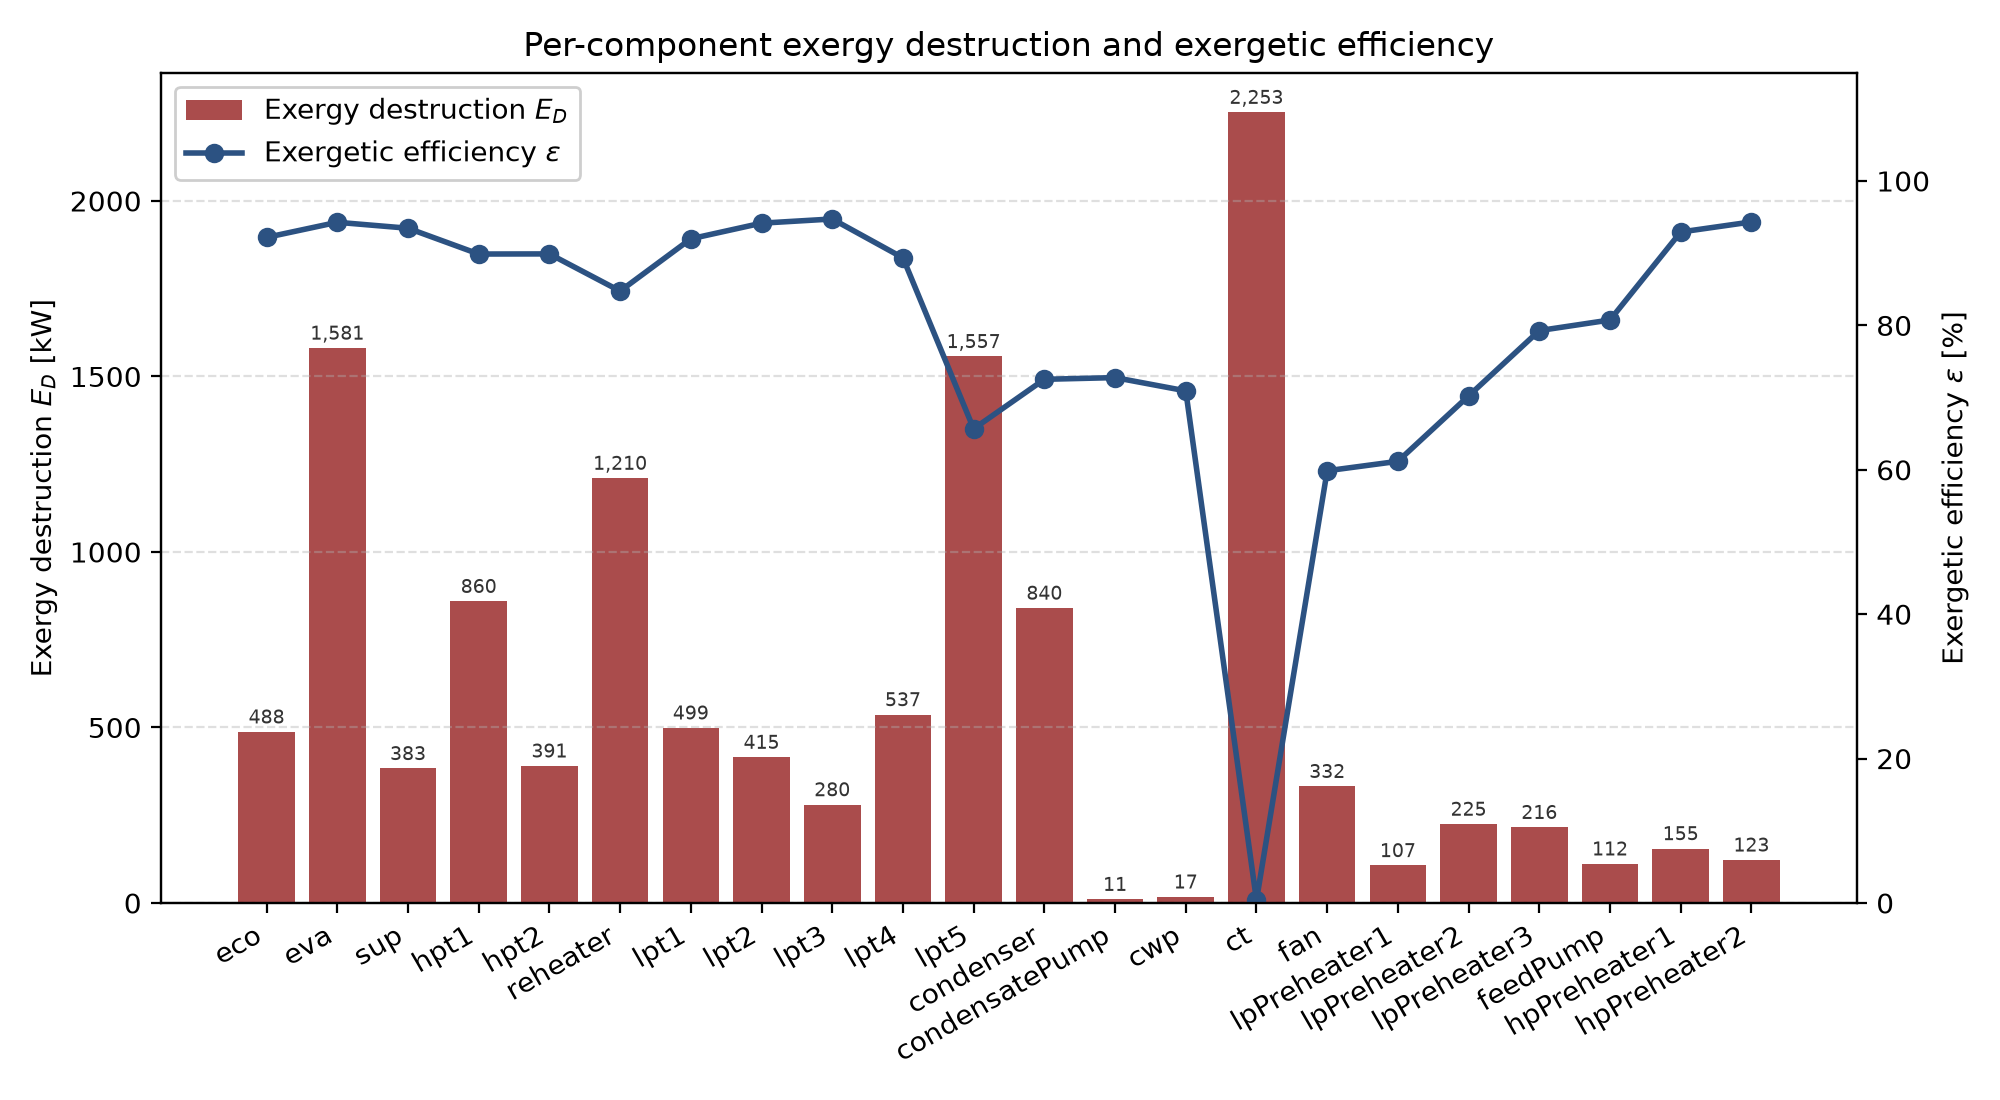
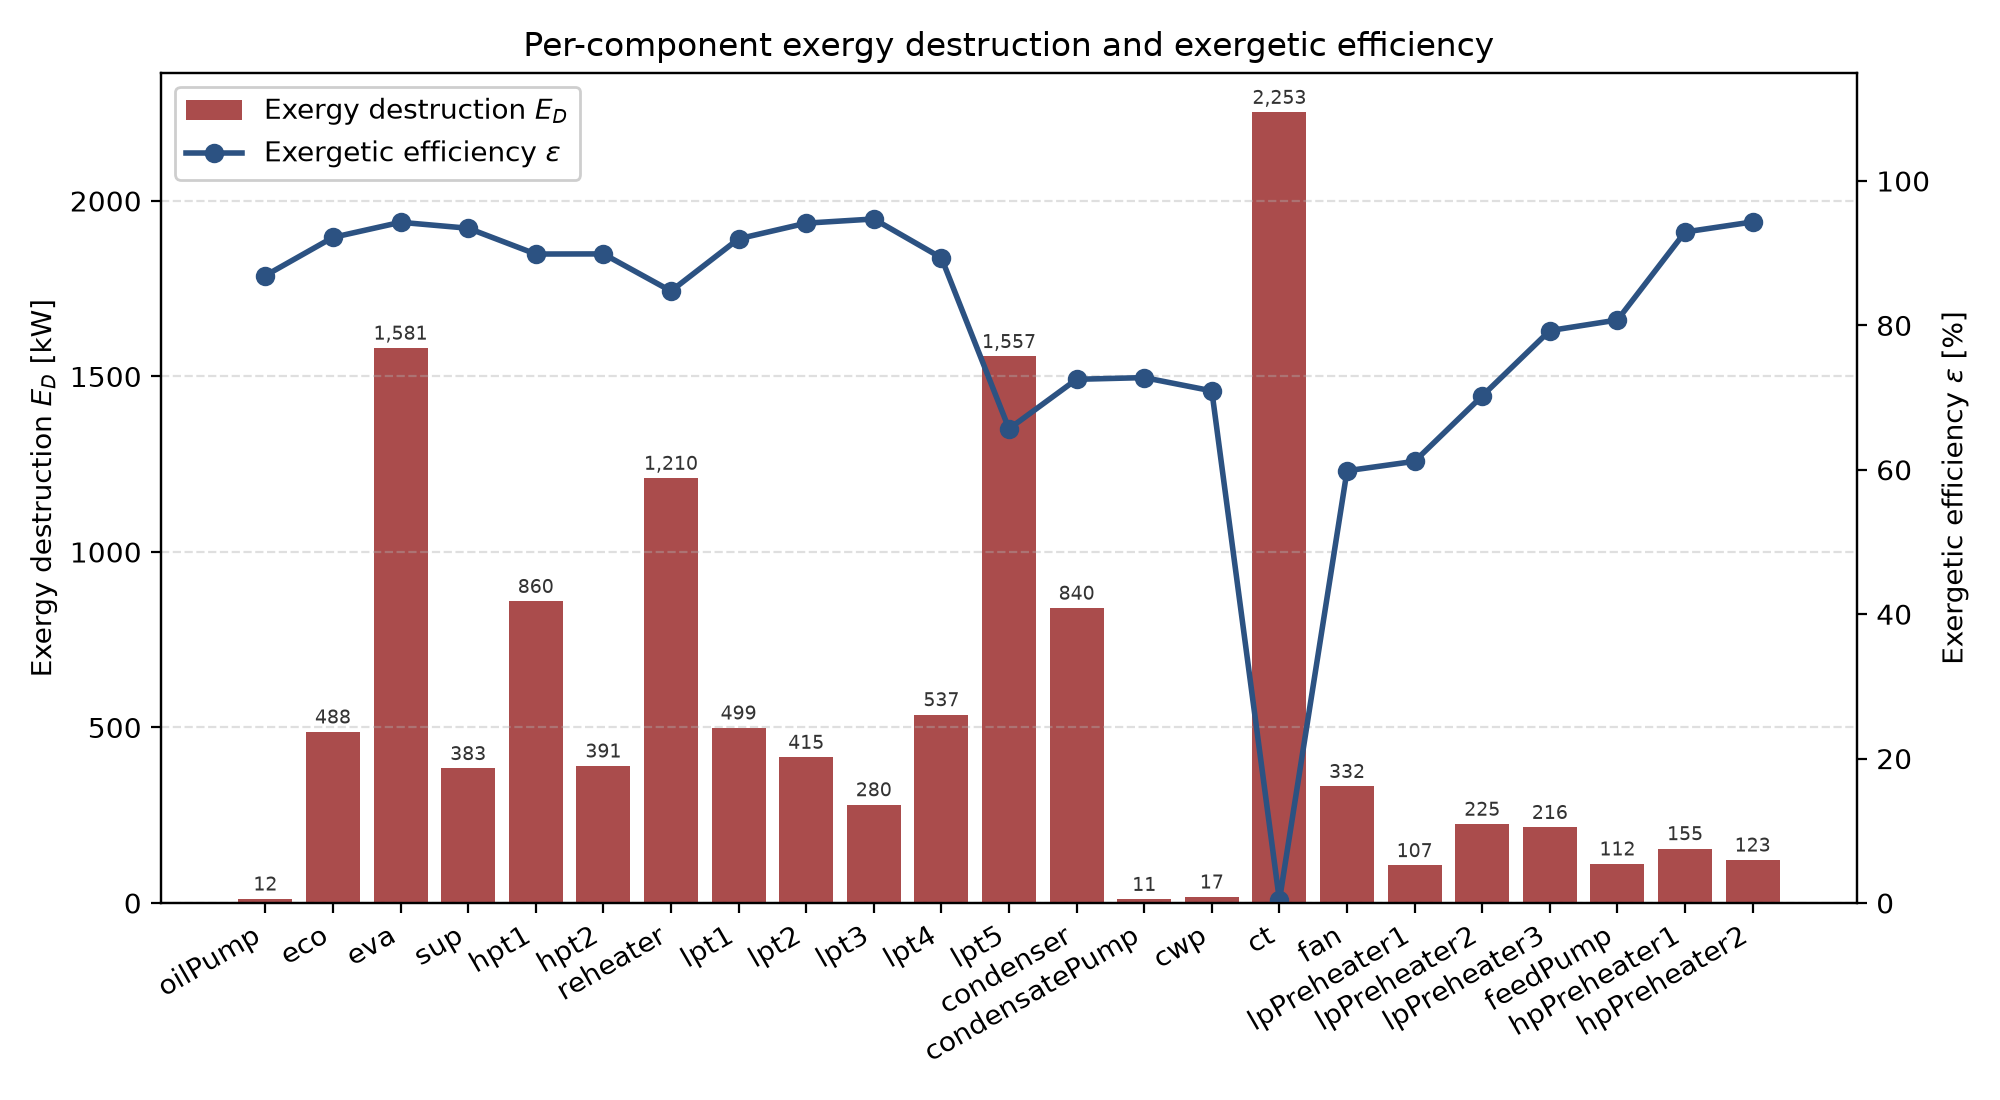
SEGS doc: describe the now-closed oil/HTF loop and its solar-field stand-in
Documents the benchmark script's own topology change: the oil loop is
genuinely closed now (oil_recycle -> oilPump -> solarField -> back to
oil_split) instead of a Source/Sink boundary, with solarField (a plain
SimpleHeater targeting the published 390 C Fig. 4 supply temperature) as
a deliberately simplified solar-field stand-in -- no irradiance/receiver
physics, just the same boundary-crossing pattern this benchmark already
uses elsewhere.

Closing the loop with Recycle (which requires a fixed mdot, unlike
TESPy's own CycleCloser) removed the oil circulation rate's previous
freedom as a Newton unknown. Documents the resulting degrees-of-freedom
fix: eco no longer has its own Setpoint (the 10 K economizer-approach
target was already the least physically-grounded of the four UA-closing
specs), so its UA is now determined by the closed loop's real energy
balance instead -- eco's own solved state barely moved (12.79 MW/300.4 C
either way), confirming the two approaches were already telling the same
story.

oilPump now gets a genuine exergy row and a real (if simplified, low-
pressure placeholder) shaft-power figure -- the HTF-circulation-pump
parasitic Table 2 counts against net output now has a modeled
counterpart, disclosed as still far below Table 2's own 1.56 MWe figure.
Converges cleanly, 43 iterations. Turbine power, mass balance, and every
other subsystem unaffected.

Changed region(s): [[0.093, 0.0618, 0.868, 0.9582], [0.713, 0.2164, 0.837, 0.4018], [0.837, 0.7418, 0.868, 0.7727]]

diff --git a/docs/benchmark/segs_exergy/segs_exergy_benchmark.md b/docs/benchmark/segs_exergy/segs_exergy_benchmark.md
@@ -59,9 +59,7 @@ fluid, not an assumed endpoint. This is now modeled directly:
 components `eco`, `eva`, and `sup` (each a genuine two-stream oil/water
 exchanger, `UA` solved by a `Setpoint` against the design outlet
 temperature) plus a [`Drum`](../../components/heat-exchangers/drum.md)
-closing the natural-circulation riser loop, all fed by their own
-`Source(fluid=INCOMP::TVP1)`/`Sink` oil boundary standing in for the
-still-unmodeled solar field. The `reheater` is likewise now a real
+closing the natural-circulation riser loop. The `reheater` is likewise now a real
 two-stream `HeatExchanger` (oil hot side, steam cold side) instead of a
 single-stream `SimpleEvaporator`. A first attempt at this subsystem was
 tried and abandoned in an earlier session — correctly wired (verified
@@ -91,6 +89,44 @@ reheater doesn't have this problem — its inlet (`hpt2`'s own `P_out`,
 18.58 bar) is an independent absolute anchor, not compounded through
 other components' ratios, so `PR_cold = 17.1 / 18.58` (both
 already-published Table 3 pressures) lands on the target exactly.
+
+**The oil/HTF loop is now genuinely closed too, not a `Source`/`Sink`
+boundary — with a simplified solar-field stand-in, not the trough's own
+physics.** `oil_merge → oilPump → solarField → oil_recycle → oil_split`:
+`oilPump` is a plain `Pump` restoring the pressure lost across
+`eco`/`eva`/`sup`/`reheater`'s own `PR_hot=0.98` drops, and `solarField`
+is a plain [`SimpleHeater`](../../components/heat-exchangers/heater.md)
+targeting the published 390 C HTF supply temperature (Fig. 4) directly —
+a deliberately simplified representative for the parabolic-trough field
+(no irradiance, receiver-loss, or tracking-loss physics modeled), the
+same "boundary-crossing stand-in" pattern this benchmark already uses
+elsewhere. `oilPump`'s own shaft power is a genuine, if simplified,
+counterpart to the HTF-circulation-pump parasitic Table 2 counts against
+net output (see "Gross and net output" below for why it's still far
+below Table 2's own figure).
+
+Closing this loop with [`Recycle`](../../components/flow-elements/recycle.md)
+removed a degree of freedom the open-loop design relied on: `Recycle`
+always takes a *fixed* `mdot` (unlike TESPy's own `CycleCloser`, which
+lets the oil flow stay a genuine free unknown), so the oil circulation
+rate — previously a free Newton unknown solved for by `eva`'s own 5 K
+pinch spec — is now fixed at `OIL_MDOT_DESIGN = 404.06 kg/s` (this
+benchmark's own previously-solved open-loop value, a disclosed,
+physically-grounded design flow, not an independently invented number).
+Fixing that flow *and* hard-pinning `solarField`'s outlet at 390 C
+together would over-constrain the chain exactly the way an earlier
+abandoned attempt at the open-loop boiler already documented ("with
+`OIL_MDOT` pinned AND the oil supply temperature pinned AND
+`sp_sup`/`sp_eco` pinned, the evaporator's own oil outlet temperature is
+already fully determined — so `sp_eva`'s `ttd_l=5` had nothing left to
+move"). The fix is the same shape: `eco` no longer has a `Setpoint` of
+its own. Its `UA` stays free (`UA=None`) but is now determined by the
+closed loop's own real energy balance instead of the earlier version's
+assumed 10 K economizer-approach target — a genuine improvement, not
+just a degrees-of-freedom workaround: `eco`'s own solved state barely
+moved (12.79 MW / 300.4 C either way), confirming the closed loop's real
+physics and the earlier assumed approach temperature were already
+telling the same story.
 
 **Cooling-water loop / cooling tower: a real closed loop, not an
 unmodeled heat sink.** The condenser previously rejected its duty to
@@ -122,13 +158,13 @@ Several of this subsystem's sizing constants are disclosed placeholders,
 not solved or published values: `RISER_RATIO=4.0` (a standard
 natural-circulation recirculation ratio, 3–6:1 is typical), `CW_MDOT`/
 `AIR_MDOT` (sized from a placeholder condenser duty and design
-temperature-rise assumptions, not a solved value), and `FAN_PR` (a small,
+temperature-rise assumptions, not a solved value), `FAN_PR` (a small,
 disclosed placeholder fan boost, ~0.5 mbar above ambient — enough to move
-air through the tower, not a derived design value). `OIL_MDOT` looks like
-one too but
-isn't — it's only a warm-start *guess*; the real oil circulation rate is
-a free unknown, solved for by the evaporator's own 5 K pinch `Setpoint`
-(`oil_src` itself has `mdot=None`), landing at ~404 kg/s. See
+air through the tower, not a derived design value), and
+`OIL_MDOT_DESIGN=404.06 kg/s` (this benchmark's own previously-solved
+open-loop value, now used as a *fixed* design flow for the closed oil
+loop's own `Recycle` — see "The oil/HTF loop is now genuinely closed
+too" above for why it can no longer be a free unknown). See
 `docs/superpowers/specs/2026-08-06-segs-full-plant-design.md` for the
 full degrees-of-freedom rationale behind each of these.
 
@@ -446,20 +482,24 @@ figures, and this is disclosed rather than glossed over: those two paper
 figures are computed against a *wider* system boundary — **solar-absorbed
 power**, not boiler+reheat duty — and *net* subtracts the HTF pump and
 cooling-tower pump/fan parasitics (Table 2: 1.56 + 0.99 MWe) on top of the
-condensate/feed pumps. Of those, only the **HTF (solar-field oil)
-circulation pump** is genuinely outside this benchmark's scope — the solar
-field that pump serves isn't modeled at all (see "Scope" in the script's
-own module docstring). The cooling-water pump (`cwp`, 60 kW) and
-cooling-tower fan (`fan`, 828 kW) *are* modeled components with their own
-solved power and their own exergy rows below; they're simply not
-subtracted from the printed net-power figure, for the same reason the
-condensate/feed pumps aren't compared head-to-head with Table 2 either —
-Table 2's parasitics are *electrical* figures that include a motor
-efficiency `Pump`/`SimpleCompressor` don't model, so the shaft power
-computed here isn't the same quantity. This benchmark's 39.0%
-steam-cycle figure and the paper's 38.2% gross-electric figure are
-answering two different, if related, questions — both given here rather
-than picking one and calling it the same number.
+condensate/feed pumps. All four of those parasitics now have a modeled
+counterpart — `cwp` (60 kW), `fan` (828 kW), and, now that the oil loop
+is genuinely closed, `oilPump` (90 kW, the HTF circulation pump's own
+shaft power) — none of them subtracted from the printed net-power figure,
+for the same reason the condensate/feed pumps aren't compared
+head-to-head with Table 2 either: Table 2's parasitics are *electrical*
+figures that include a motor efficiency `Pump`/`SimpleCompressor` don't
+model, so the shaft power computed here isn't the same quantity. `oilPump`
+in particular lands far below Table 2's own 1.56 MWe HTF-pump figure (90
+vs. 1560 kW) for an additional reason beyond the missing motor efficiency:
+its own discharge pressure is this benchmark's own placeholder (restoring
+just the pressure lost across `eco`/`eva`/`sup`/`reheater`'s own `PR_hot`
+drops), not derived from the real parabolic-trough field's own pressure
+drop, which `solarField`'s simplified `SimpleHeater` stand-in doesn't
+model at all. This benchmark's 39.0% steam-cycle figure and the paper's
+38.2% gross-electric figure are answering two different, if related,
+questions — both given here rather than picking one and calling it the
+same number.
 
 ### ThermoWave's own exergy analysis (no paper equivalent)
 
@@ -477,6 +517,7 @@ Actual printed output from `python segs_exergy_benchmark.py`:
 Components
 component       │       E_F [W]│       E_P [W]│       E_D [W]│   epsilon [-]
 ────────────────┼──────────────┼──────────────┼──────────────┼──────────────
+oilPump         │     8.988e+04│      7.81e+04│     1.178e+04│         86.89
 eco             │     6.241e+06│     5.753e+06│     4.877e+05│         92.19
 eva             │     2.762e+07│     2.604e+07│     1.581e+06│         94.28
 sup             │     5.856e+06│     5.473e+06│     3.834e+05│         93.45
@@ -502,8 +543,10 @@ hpPreheater2    │     2.164e+06│     2.041e+06│     1.228e+05│         9
 
 Network
        E_F [W]│       E_P [W]│       E_D [W]│       E_L [W]│   epsilon [%]
-     5.091e+07│     3.544e+07│     1.259e+07│             0│          69.6
+     5.091e+07│     3.544e+07│      1.26e+07│             0│          69.6
 ```
+
+`oilPump` gets a genuine exergy row for the same reason `cwp`/`condensatePump`/`feedPump` already did — it's a real, solved pump component. This is new: the oil loop only just became genuinely closed (with `oilPump` as a real component, not a `Source` boundary) — see "The cycle" above.
 
 Every feedwater heater now gets a genuine `E_F`/`E_P`/`E_D`/`ε` row costed
 directly from its own two real streams (`lpPreheater1`/`2`/`3`,
@@ -516,8 +559,8 @@ condenser: both sides are real now, so both sides get costed.
 
 **The network-level balance does not close, and that's disclosed here
 rather than left for a reader to discover.** A closed exergy balance would
-have `E_P + E_D + E_L = E_F`; this run gives 35.44 + 12.59 + 0 = 48.03 MW
-against `E_F` = 50.91 MW, a **2.88 MW (5.7%) gap**. Two known, separate
+have `E_P + E_D + E_L = E_F`; this run gives 35.44 + 12.60 + 0 = 48.04 MW
+against `E_F` = 50.91 MW, a **2.87 MW (5.6%) gap**. Two known, separate
 causes account for it, neither of which is a solver or a component error:
 
 1. **The network-level `fuel` is a Carnot approximation; the component
@@ -530,8 +573,8 @@ causes account for it, neither of which is a solver or a component error:
    reconcile, and the network-level fuel runs the higher of the two.
    Costing the network-level fuel natively from the oil stream as well
    would remove this term; that's a natural follow-up, not done here.
-2. **`fan` and `cwp` shaft work enters `E_D` with no matching `E_F`
-   entry.** Both are real modeled components whose destroyed exergy is
+2. **`fan`/`cwp`/`oilPump` shaft work enters `E_D` with no matching `E_F`
+   entry.** All three are real modeled components whose destroyed exergy is
    tallied into the network `E_D` total, but the electrical work driving
    them is not declared as a network-level fuel stream, so it appears on
    the destruction side of the balance only.
@@ -577,20 +620,25 @@ disclosed, understood simplification (a placeholder pump discharge
 pressure instead of a derived one) — not an unexplained discrepancy.
 
 The boiler-internals (economizer/drum/evaporator/superheater/reheater),
-cooling-water-loop/cooling-tower, and feedwater-heater/deaerator
-subsystems all converge cleanly as part of the same full-plant solve (42
-iterations, residual 2.3e-08) — there's no separate pass/fail gate for
+cooling-water-loop/cooling-tower, feedwater-heater/deaerator, and oil/HTF
+loop subsystems all converge cleanly as part of the same full-plant solve
+(43 iterations, residual 4.8e-08) — there's no separate pass/fail gate for
 them, since they're wired into the one `Network.solve()` this whole
-benchmark already runs.
-Lippke's Table 3 has no design data for either subsystem, so their own
-pass criteria are narrower than the turbine/mass-balance checks above:
-`sup` and `reheater` genuinely reach the published 371 C boiler/reheater
-outlet (see "Boiler internals"), and the closed cooling-water loop is
-internally consistent (`condenser`'s and `ct`'s duties agree to within
-0.1%, see "Cooling tower"). Everything else about these two subsystems —
-individual component duties, `UA`s, and exergy figures — is reported as
-ThermoWave's own result with no published number to check it against,
-disclosed as such rather than presented as a validated match.
+benchmark already runs. The oil loop is now genuinely closed
+(`oil_recycle`, through `oilPump` and a `solarField` stand-in) rather than
+a `Source`/`Sink` boundary — see "The cycle" above for the full
+degrees-of-freedom accounting, including why `eco` no longer has its own
+`Setpoint`.
+Lippke's Table 3 has no design data for the boiler-internals or
+cooling-tower subsystems, so their own pass criteria are narrower than
+the turbine/mass-balance checks above: `sup` and `reheater` genuinely
+reach the published 371 C boiler/reheater outlet (see "Boiler
+internals"), and the closed cooling-water loop is internally consistent
+(`condenser`'s and `ct`'s duties agree to within 0.1%, see "Cooling
+tower"). Everything else about these subsystems — individual component
+duties, `UA`s, and exergy figures — is reported as ThermoWave's own
+result with no published number to check it against, disclosed as such
+rather than presented as a validated match.
 
 ## Regenerating the plots
 
